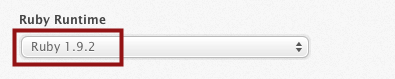
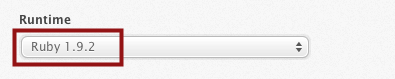
DOC-268 doing a global tweak to change Ruby Runtime to plain Runtime

Changed region(s): [[0.0911, 0.1772, 0.2734, 0.3291]]

diff --git a/pages/beta-rubinius-environment-with-appcloud-trial.md b/pages/beta-rubinius-environment-with-appcloud-trial.md
@@ -37,10 +37,10 @@ The trial is setup with a streamlined workflow that automatically creates a Ruby
 
 1. Make sure that the instance is loaded (that the indicator light is green).  
 3. On the Environment, click Edit Environment.    
-4. On the Edit the Environment page, set the Ruby Runtime to Rubinius 1.2.4 (beta). 
+4. On the Edit the Environment page, set the Runtime to Rubinius 1.2.4 (beta). 
 5. Click Update Environment.  
 6. On the Environment page, click !Update.  
-    This reboots the Rubinius environment, changing the ruby runtime to Rubinus.  
+    This reboots the Rubinius environment, changing the Runtime to Rubinus.  
 
 <h2 id="topic4"> What next? </h2>
 
@@ -60,7 +60,7 @@ This table contains troubleshooting tips related to the trial account with the R
   </tr>
    
    <tr>
-    <td>I don't have the Rubinius option for the Ruby Runtime.</td><td>You don't yet have access to the Rubinius Alpha program. <br> Try submitting the request again, noting in the comments field that you are unable to see the Rubinius option. </td>
+    <td>I don't have the Rubinius option for the Runtime.</td><td>You don't yet have access to the Rubinius Alpha program. <br> Try submitting the request again, noting in the comments field that you are unable to see the Rubinius option. </td>
    </tr>
 </td>
 

diff --git a/pages/migration-to-newer-ruby.md b/pages/migration-to-newer-ruby.md
@@ -19,11 +19,11 @@ Ruby 1.9 is a version of MRI which brings substantial performance improvements. 
     b. Reinstall the gems required for application.  
     c. Test the application in your local environment; make fixes if needed.
 4. Run your application in a staging environment:  
-    a. Clone a staging environment and edit the Ruby Runtime to Ruby 1.9.2. (Alternatively, create a new staging environment.)  
+    a. Clone a staging environment and edit the Runtime to Ruby 1.9.2. (Alternatively, create a new staging environment.)  
     c. Deploy the application to the staging environment.  
     d. Test the application in the staging environment; make fixes if needed.
 7. Run your application in a production environment:  
-    a. Clone a production environment and edit the Ruby Runtime to Ruby 1.9.2. (Alternatively, create a new production environment.)  
+    a. Clone a production environment and edit the Runtime to Ruby 1.9.2. (Alternatively, create a new production environment.)  
     b. Deploy the application to the staging environment.  
 
 <h2 id="topic5"> More information</h2>

diff --git a/pages/amazon-out-of-capacity.md b/pages/amazon-out-of-capacity.md
@@ -16,7 +16,7 @@ When you are booting up your instance sometimes you run into this message: "Amaz
 
 * You are then be presented with the Edit the Environment page that you had during the quick start process. Here click the (show advanced options) link.
 
-* Now you are presented with a list of advanced option that includes changing the Ruby runtime and the most important for this error, the Availability Zone. Change the availability zone from what it currently is to another area. After you have done this, make sure to click the Update Instances button.
+* Now you are presented with a list of advanced option that includes changing the Runtime and the most important for this error, the Availability Zone. Change the availability zone from what it currently is to another area. After you have done this, make sure to click the Update Instances button.
 
 * You are then be redirected to the Dashboard. Here you want to click the Boot Instance button. Then choose what type of configuration you want to have and boot up again.
 

diff --git a/pages/using-rubinius-on-appcloud.md b/pages/using-rubinius-on-appcloud.md
@@ -23,7 +23,7 @@ Use Rails 3.0.9 or _below_ with Rubinius. Rubinius 1.2.4 is incompatible with Ra
 2. Select Passenger 3 for the web server.  
     Rubinius works only with Passenger 3.
   
-3. In the Ruby Runtime section, select Rubinius.  
+3. In the Runtime section, select Rubinius.  
 
 ![Figure 1](images/rubinius_environment.png)
 
@@ -33,5 +33,5 @@ Use Rails 3.0.9 or _below_ with Rubinius. Rubinius 1.2.4 is incompatible with Ra
 2. Select Passenger 3 for the web server.  
 	Rubinius works only with Passenger 3.
 
-3. In the Ruby Runtime section, select Rubinius.  
+3. In the Runtime section, select Rubinius.  
     If you have existing applications running in the environment, the Dashboard prompts you to rebuild the environment, which will re-run chef recipes and update the runtime to use Rubinius.

diff --git a/pages/appcloud_updates_august_2011.md b/pages/appcloud_updates_august_2011.md
@@ -80,11 +80,11 @@ Resque workers to fail.
 This issue applied only if bundler was used in older AppCloud environments
 (or in Engine Yard xCloud environments).
 
-<a href=#update4><h2 id="update4"> Minor: Ruby 1.9.2 is now the default Ruby runtime for new environments</h2></a>
+<a href=#update4><h2 id="update4"> Minor: Ruby 1.9.2 is now the default Runtime for new environments</h2></a>
 
 August 4th, 2011
 
-Ruby 1.9.2 has been available in AppCloud for a while. However, until now, Ruby 1.8.7 has been the default Ruby runtime.
+Ruby 1.9.2 has been available in AppCloud for a while. However, until now, Ruby 1.8.7 has been the default Runtime.
 
 For more information, see [[Upgrading to Ruby 1.9|upgrading-to-ruby19]]. 
 

diff --git a/pages/upgrading-to-ruby19.md b/pages/upgrading-to-ruby19.md
@@ -12,7 +12,7 @@ Each environment is associated with a specific version of the runtime that is us
 
 2. On the Environment, click Create New Environment.
 
-3. Complete the fields for the environment. Make sure to select Ruby 1.9.2 for the Ruby Runtime.
+3. Complete the fields for the environment. Make sure to select Ruby 1.9.2 for the Runtime.
 
 ![Figure 1](images/ruby_192.png)
 
@@ -23,5 +23,5 @@ After you test Ruby 1.9 with your application(s), you can switch your production
 
 1. Stop the environment.
 2. On the Environment page, click Edit Environments.
-4. Under Ruby Runtime, select Ruby 1.9.2.
+4. Under Runtime, select Ruby 1.9.2.
 5. Update and boot the environment.

diff --git a/pages/deploy-jruby-trial.md b/pages/deploy-jruby-trial.md
@@ -28,7 +28,7 @@ The trial was set up with a streamlined workflow that automatically creates a Ru
 2. Click Stop to stop the environment.  
 3. On the Environment, click Edit Environment.    
 4. On the Edit the Environment page, set Application Server Stack to Trinidad.  
-    The Ruby Runtime changes to JRuby 1.6.2.  
+    The Runtime changes to JRuby 1.6.2.  
     **Note:** If you can't edit the Application Server Stack, make sure that you have stopped the environment. Only stopped environments can be edited.
 5. Click Update Environment.  
 6. On the Environment page, click Boot.  

diff --git a/pages/release_notes.md b/pages/release_notes.md
@@ -78,7 +78,7 @@
 
 * [[Fix: Resque workers failing|appcloud_updates_august_2011#update5]]  *August 8th, 2011*
 
-* [[Minor: Ruby 1.9.2 is now the default Ruby runtime for new environments|appcloud_updates_august_2011#update4]] *August 4th, 2011*
+* [[Minor: Ruby 1.9.2 is now the default Runtime for new environments|appcloud_updates_august_2011#update4]] *August 4th, 2011*
 
 * [[<b>Major:</b> Passenger 3 is now generally available in AppCloud|appcloud_updates_august_2011#update3]]  *August 3rd, 2011*
 

diff --git a/pages/environment-create.md b/pages/environment-create.md
@@ -23,8 +23,8 @@ application setup within your Engine Yard account.
   * ### Application Server Stack
     Select an application server to serve your Rails or Ruby application in this environment.
     
-  * ### Ruby Runtime
-    Select a Ruby runtime to run your applications in this environment.
+  * ### Runtime
+    Select a runtime to run your applications in this environment.
     
   * ### Domain Name
     Set your domain name for this environment.

diff --git a/pages/beta-jruby-environment-with-appcloud-trial.md b/pages/beta-jruby-environment-with-appcloud-trial.md
@@ -66,7 +66,7 @@ Running a JRuby application is similar to running any Ruby application. The main
 1. In your Dashboard, create an application.  
 
 3. Create the environment.  
-	Set the Application Server to Trinidad. When the Application Server is set to Trinidad the Ruby Runtime defaults to JRuby.
+	Set the Application Server to Trinidad. When the Application Server is set to Trinidad the Runtime defaults to JRuby.
 	
 4. Deploy the application.
 

diff --git a/pages/deploy-jruby.md b/pages/deploy-jruby.md
@@ -65,7 +65,7 @@ Running a JRuby application is similar to running any Ruby application. The main
 1. In your Dashboard, create an application.  
 
 3. Create the environment.  
-	Set the Application Server to Trinidad. When the Application Server is set to Trinidad the Ruby Runtime defaults to JRuby.
+	Set the Application Server to Trinidad. When the Application Server is set to Trinidad the Runtime defaults to JRuby.
 	
 4. Deploy the application.
 

diff --git a/pages/deployment-windows.md b/pages/deployment-windows.md
@@ -82,7 +82,7 @@ can add your ssh public key to the service hosting your git repository.
 
 2. Select Framework Environment. (default is production)
 3. Choose Application Server. (default is Passenger 3)
-4. Select a Ruby Runtime. (default is Ruby 1.9.2)
+4. Select a Runtime. (default is Ruby 1.9.2)
 5. Select the Database Stack (default is MySQL 5.0.x)
 6. Configure the database backup frequency if desired.
 7. Click Create Environment.
